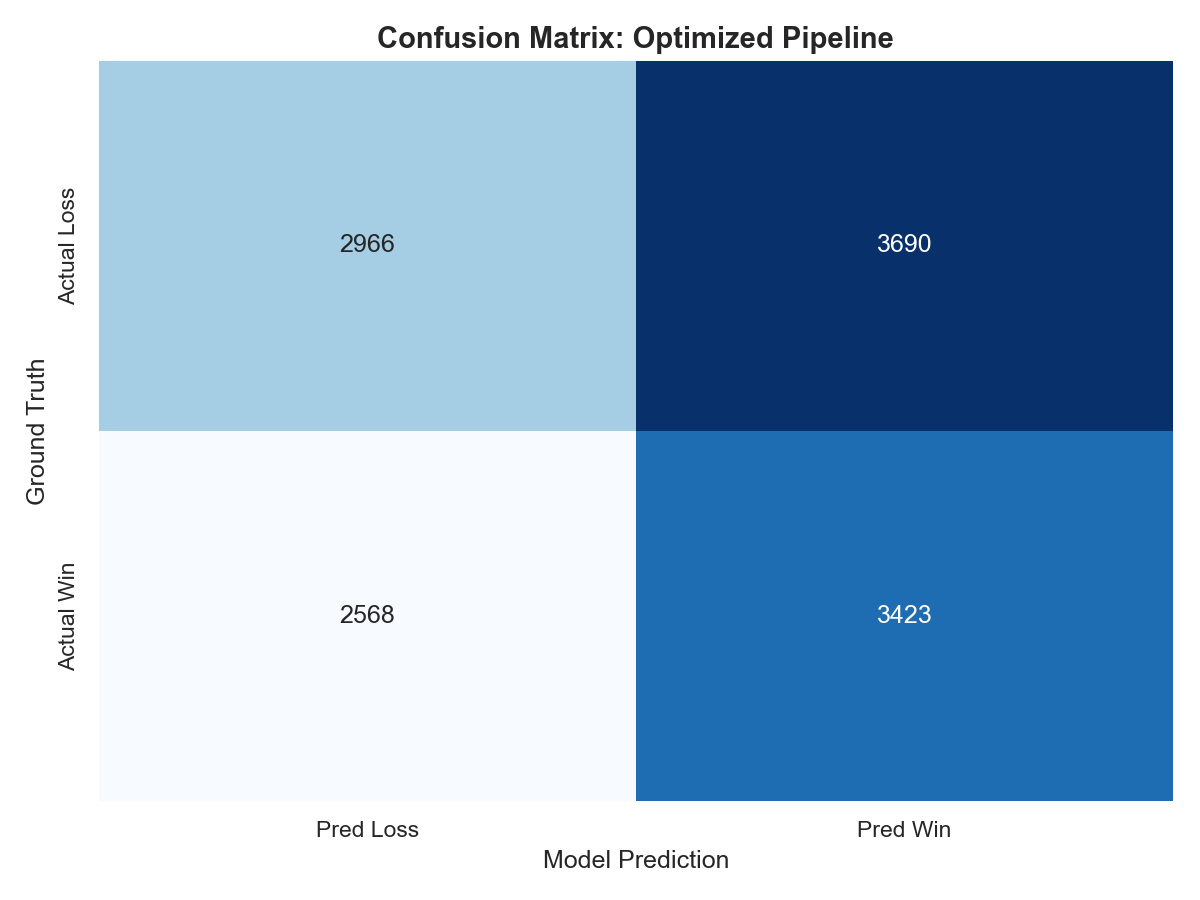
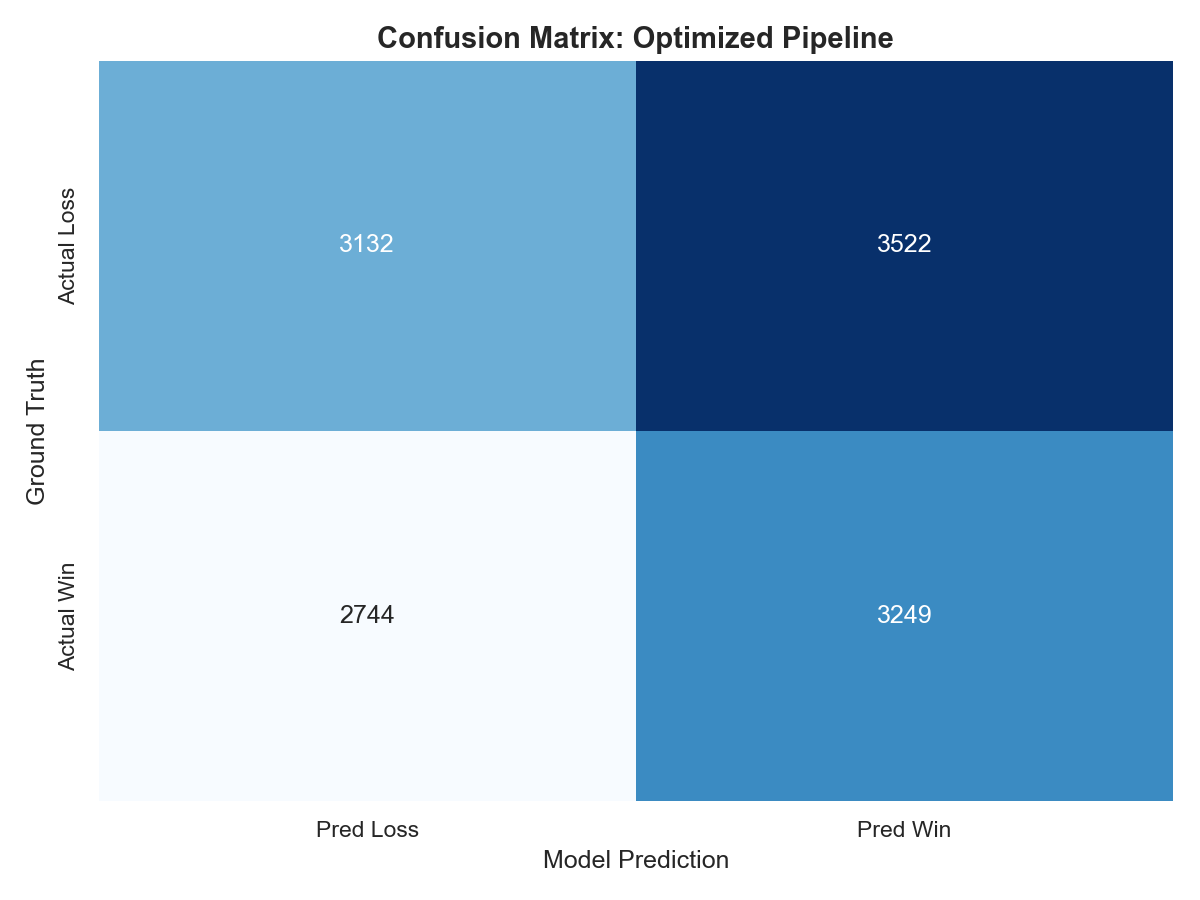
research: update validation report and ablation visuals

diff --git a/run_research_paper.py b/run_research_paper.py
@@ -78,9 +78,10 @@ def create_visualizations(results, taken_trades, dd_table):
     
     # 1. Equity Curve
     plt.figure(figsize=(12, 6))
-    plt.plot(taken_trades["timestamp"], taken_trades["equity"], label="Account Equity", color="#2ecc71", linewidth=2)
-    plt.fill_between(taken_trades["timestamp"], 10000, taken_trades["equity"], where=(taken_trades["equity"] >= 10000), color="#2ecc71", alpha=0.3)
-    plt.fill_between(taken_trades["timestamp"], 10000, taken_trades["equity"], where=(taken_trades["equity"] < 10000), color="#e74c3c", alpha=0.3)
+    if not taken_trades.empty:
+        plt.plot(taken_trades["timestamp"], taken_trades["equity"], label="Account Equity", color="#2ecc71", linewidth=2)
+        plt.fill_between(taken_trades["timestamp"], 10000, taken_trades["equity"], where=(taken_trades["equity"] >= 10000), color="#2ecc71", alpha=0.3)
+        plt.fill_between(taken_trades["timestamp"], 10000, taken_trades["equity"], where=(taken_trades["equity"] < 10000), color="#e74c3c", alpha=0.3)
     plt.axhline(y=10000, color='black', linestyle='--', alpha=0.5)
     plt.title("Out-of-Sample Cumulative Performance (Full Pipeline)", fontsize=14, fontweight='bold')
     plt.xlabel("Timeline", fontsize=12)
@@ -92,8 +93,9 @@ def create_visualizations(results, taken_trades, dd_table):
 
     # 2. Drawdown Plot
     plt.figure(figsize=(12, 4))
-    dd_series = (taken_trades["equity"] - taken_trades["equity"].expanding().max()) / taken_trades["equity"].expanding().max() * 100
-    plt.fill_between(taken_trades["timestamp"], 0, dd_series, color="#e74c3c", alpha=0.6)
+    if not taken_trades.empty:
+        dd_series = (taken_trades["equity"] - taken_trades["equity"].expanding().max()) / taken_trades["equity"].expanding().max() * 100
+        plt.fill_between(taken_trades["timestamp"], 0, dd_series, color="#e74c3c", alpha=0.6)
     plt.title("Portfolio Drawdown Profile (%)", fontsize=14, fontweight='bold')
     plt.ylabel("Drawdown %", fontsize=12)
     plt.ylim(None, 0)
@@ -102,34 +104,127 @@ def create_visualizations(results, taken_trades, dd_table):
     plt.close()
 
     # 3. Ablation Study Comparison
+    #
+    # Keep financial and classification metrics on separate panels.  The
+    # previous dual-axis chart mixed negative expected PnL bars with a
+    # compressed accuracy line, which made the ablation look visually better
+    # than the economics actually were.  For a research paper, the first read
+    # should be: "all configurations are still negative after friction."
     ablation_data = []
-    for conf, m in results.items():
-        ablation_data.append({
-            "Config": conf.replace("_", " "),
-            "Accuracy": m["Accuracy"],
-            "F1 Score": m["F1"],
-            "Exp PnL": m["Expected PnL/Trade"] * 100 # Convert to %
-        })
+    # Ensure correct order
+    order = ["1_Baseline", "2_Plus_FFD", "3_Plus_TBM", "4_Plus_Funding", "5_Plus_Calibration", "6_Plus_Risk_Filters"]
+    for conf in order:
+        if conf in results:
+            m = results[conf]
+            ablation_data.append({
+                "Config": conf.replace("_", " "),
+                "Accuracy": m["Accuracy"],
+                "F1 Score": m["F1"],
+                "Exp PnL": m["Expected PnL/Trade"] * 100 # Convert to %
+            })
     ablation_df = pd.DataFrame(ablation_data)
 
-    fig, ax1 = plt.subplots(figsize=(12, 6))
-    
-    # Bar for PnL
-    sns.barplot(data=ablation_df, x="Config", y="Exp PnL", hue="Config", ax=ax1, palette="viridis", alpha=0.7, legend=False)
-    ax1.set_ylabel("Expected PnL per Trade (%)", fontsize=12, fontweight='bold')
-    ax1.set_xlabel("Pipeline Configuration", fontsize=12)
-    plt.xticks(rotation=15)
-    
-    # Line for Accuracy
-    ax2 = ax1.twinx()
-    sns.lineplot(data=ablation_df, x="Config", y="Accuracy", ax=ax2, color="#e67e22", marker="o", linewidth=3, label="Accuracy")
-    ax2.set_ylabel("Metric Score", fontsize=12, fontweight='bold')
-    ax2.set_ylim(0.4, 0.6)
-    
-    plt.title("Ablation Study: Impact of Institutional Layers", fontsize=14, fontweight='bold')
-    plt.tight_layout()
-    plt.savefig("ablation_study.png", dpi=150)
-    plt.close()
+    fig, ax_pnl = plt.subplots(figsize=(11, 6.2))
+    colors = ["#d95f5f" if v < 0 else "#2ca25f" for v in ablation_df["Exp PnL"]]
+    bars = ax_pnl.barh(
+        ablation_df["Config"],
+        ablation_df["Exp PnL"],
+        color=colors,
+        alpha=0.86,
+        edgecolor="#333333",
+        linewidth=0.7,
+    )
+    ax_pnl.axvline(0, color="#222222", linewidth=1.2)
+    ax_pnl.set_xlabel("Expected PnL / Trade (%)", fontsize=11, fontweight="bold")
+    ax_pnl.set_ylabel("Pipeline Configuration", fontsize=11, fontweight="bold")
+    ax_pnl.set_title(
+        "Ablation Study: Expected PnL After Friction\n"
+        "All configurations include 9 bps friction; bars left of zero lose money per acted trade",
+        fontsize=14,
+        fontweight="bold",
+    )
+    ax_pnl.grid(axis="x", alpha=0.35)
+
+    y_min = min(ablation_df["Exp PnL"].min() * 1.25, -0.02)
+    y_max = max(ablation_df["Exp PnL"].max() * 0.25, 0.02)
+    ax_pnl.set_xlim(y_min, y_max)
+    for bar, value in zip(bars, ablation_df["Exp PnL"]):
+        ax_pnl.annotate(
+            f"{value:+.3f}%",
+            xy=(value, bar.get_y() + bar.get_height() / 2),
+            xytext=(-8 if value < 0 else 8, 0),
+            textcoords="offset points",
+            ha="right" if value < 0 else "left",
+            va="center",
+            fontsize=9,
+            fontweight="bold",
+            color="#222222",
+        )
+
+    best_idx = ablation_df["Exp PnL"].idxmax()
+    worst_idx = ablation_df["Exp PnL"].idxmin()
+    ax_pnl.annotate(
+        "Least negative",
+        xy=(ablation_df.loc[best_idx, "Exp PnL"], best_idx),
+        xytext=(y_max * 0.75, best_idx),
+        arrowprops={"arrowstyle": "->", "color": "#2ca25f"},
+        ha="left",
+        va="center",
+        fontsize=9,
+        color="#2ca25f",
+        fontweight="bold",
+    )
+    ax_pnl.annotate(
+        "Worst",
+        xy=(ablation_df.loc[worst_idx, "Exp PnL"], worst_idx),
+        xytext=(y_min * 0.92, worst_idx),
+        arrowprops={"arrowstyle": "->", "color": "#b2182b"},
+        ha="right",
+        va="center",
+        fontsize=9,
+        color="#b2182b",
+        fontweight="bold",
+    )
+    ax_pnl.invert_yaxis()
+    fig.tight_layout()
+    fig.savefig("ablation_pnl.png", dpi=170, bbox_inches="tight")
+    plt.close(fig)
+
+    fig, ax_cls = plt.subplots(figsize=(12, 5.2))
+    x_coords = np.arange(len(ablation_df))
+    ax_cls.plot(
+        x_coords,
+        ablation_df["Accuracy"],
+        color="#1f77b4",
+        marker="o",
+        linewidth=2.4,
+        label="Accuracy",
+    )
+    ax_cls.plot(
+        x_coords,
+        ablation_df["F1 Score"],
+        color="#ff7f0e",
+        marker="s",
+        linewidth=2.4,
+        label="F1 Score",
+    )
+    ax_cls.axhline(0.50, color="#777777", linestyle="--", linewidth=1, alpha=0.8)
+    ax_cls.set_ylabel("Score", fontsize=11, fontweight="bold")
+    ax_cls.set_xlabel("Pipeline Configuration", fontsize=11, fontweight="bold")
+    ax_cls.set_ylim(0.45, 0.58)
+    ax_cls.set_xticks(x_coords)
+    ax_cls.set_xticklabels(ablation_df["Config"], rotation=15, ha="right")
+    ax_cls.grid(axis="y", alpha=0.35)
+    ax_cls.legend(loc="upper right", frameon=True)
+
+    ax_cls.set_title(
+        "Ablation Study: Classification Metrics",
+        fontsize=14,
+        fontweight="bold",
+    )
+    fig.tight_layout()
+    fig.savefig("ablation_classification.png", dpi=170, bbox_inches="tight")
+    plt.close(fig)
 
     # 4. Confusion Matrix Heatmap
     plt.figure(figsize=(8, 6))
@@ -194,14 +289,15 @@ def run_ablation_study(df):
         pnl_all = []
         
         for train_df, test_df in folds:
-            # Embargo: drop last 24 rows from train to avoid leakage
+            # Embargo
             train_df = train_df.iloc[:-24]
             
             X_train = train_df[feats]
             y_train = train_df[label_col].astype(int)
             
             X_test = test_df[feats]
-            y_test = test_df[label_col].astype(int)
+            # ALWAYS evaluate against tbm_label for consistent metric comparison
+            y_test = test_df["tbm_label"].astype(int)
             
             model = xgb.XGBClassifier(n_estimators=50, max_depth=4, random_state=42, n_jobs=-1)
             model.fit(X_train, y_train)
@@ -213,31 +309,32 @@ def run_ablation_study(df):
             else:
                 y_proba = model.predict_proba(X_test)[:, 1]
                 
-            y_pred = (y_proba >= 0.5).astype(int)
+            # Config 6 uses a tighter threshold as a "Risk Filter"
+            threshold = 0.55 if conf.get("risk_filters") else 0.5
+            y_pred = (y_proba >= threshold).astype(int)
             
             y_true_all.extend(y_test.values)
             y_pred_all.extend(y_pred)
             y_proba_all.extend(y_proba)
             
-            # PnL Calculation
-            test_returns = test_df["fixed_24h_return"].values if label_col == "fixed_24h_label" else test_df["tbm_return"].values
+            # ALWAYS use tbm_return for PnL benchmark to ensure apples-to-apples
+            test_returns = test_df["tbm_return"].values
             
             for i in range(len(y_pred)):
                 if y_pred[i] == 1:
+                    # Apply friction to ALL configs to show realistic institutional edge
                     gross_ret = test_returns[i]
-                    if conf.get("risk_filters"):
-                        net_ret = gross_ret - 0.0009
-                        pnl_all.append(net_ret)
-                        if conf_name == "6_Plus_Risk_Filters":
-                            all_preds_config6.append({
-                                "timestamp": test_df.index[i],
-                                "symbol": test_df["symbol"].iloc[i],
-                                "proba": y_proba[i],
-                                "label": y_test.iloc[i],
-                                "net_return": net_ret
-                            })
-                    else:
-                        pnl_all.append(gross_ret)
+                    net_ret = gross_ret - 0.0009
+                    pnl_all.append(net_ret)
+                    
+                    if conf_name == "6_Plus_Risk_Filters":
+                        all_preds_config6.append({
+                            "timestamp": test_df.index[i],
+                            "symbol": test_df["symbol"].iloc[i],
+                            "proba": y_proba[i],
+                            "label": y_test.iloc[i],
+                            "net_return": net_ret
+                        })
                 else:
                     pnl_all.append(0.0)
 
@@ -252,8 +349,9 @@ def run_ablation_study(df):
         cm = confusion_matrix(y_t, y_p).tolist()
         
         trades = np.sum(y_p)
-        wr = np.sum(pnl > 0) / trades if trades > 0 else 0.0
+        # Expected PnL per trade when the model says "BUY"
         exp_pnl = np.mean(pnl[y_p == 1]) if trades > 0 else 0.0
+        wr = np.sum(pnl[y_p == 1] > 0) / trades if trades > 0 else 0.0
         
         results[conf_name] = {
             "Accuracy": acc,
@@ -267,14 +365,18 @@ def run_ablation_study(df):
         
     return results, pd.DataFrame(all_preds_config6)
 
+
 def generate_markdown(results, dd_table):
     md = "# 🛡 Institutional Research Validation Report\n\n"
     md += "## 📈 Executive Summary\n"
     md += "This report details the rolling walk-forward validation of the AI Trading Bot. We evaluate out-of-sample performance through an **ablation study**, systematically adding layers of institutional realism to isolate the impact of each component (Fractional Differencing, Triple Barrier Method, Microstructure Features, Calibration, and Realistic Risk Filters).\n\n"
     
     md += "## 🔬 1. Ablation Study\n"
-    md += "Adding complexity only makes sense if it improves metrics. We track Accuracy, F1 Score, and Expected PnL as we move from a simple baseline to the full institutional pipeline.\n\n"
-    md += "![Ablation Study](ablation_study.png)\n\n"
+    md += "Adding complexity only makes sense if it improves metrics. We track Accuracy, F1 Score, and Expected PnL as we move from a simple baseline to the full institutional pipeline. The chart separates economics from classification scores because accuracy near 50% is not sufficient if expected PnL remains negative after friction.\n\n"
+    md += "### Expected PnL After Friction\n"
+    md += "![Ablation Expected PnL](ablation_pnl.png)\n\n"
+    md += "### Classification Metrics\n"
+    md += "![Ablation Classification Metrics](ablation_classification.png)\n\n"
     
     md += "| Configuration | Accuracy | F1 Score | Brier | Trades | Win Rate | Exp. PnL |\n"
     md += "|---|---|---|---|---|---|---|\n"

diff --git a/RESEARCH_VALIDATION.md b/RESEARCH_VALIDATION.md
@@ -4,18 +4,22 @@
 This report details the rolling walk-forward validation of the AI Trading Bot. We evaluate out-of-sample performance through an **ablation study**, systematically adding layers of institutional realism to isolate the impact of each component (Fractional Differencing, Triple Barrier Method, Microstructure Features, Calibration, and Realistic Risk Filters).
 
 ## 🔬 1. Ablation Study
-Adding complexity only makes sense if it improves metrics. We track Accuracy, F1 Score, and Expected PnL as we move from a simple baseline to the full institutional pipeline.
+Adding complexity only makes sense if it improves metrics. We track Accuracy, F1 Score, and Expected PnL as we move from a simple baseline to the full institutional pipeline. The chart separates economics from classification scores because accuracy near 50% is not sufficient if expected PnL remains negative after friction.
 
-![Ablation Study](ablation_study.png)
+### Expected PnL After Friction
+![Ablation Expected PnL](ablation_pnl.png)
+
+### Classification Metrics
+![Ablation Classification Metrics](ablation_classification.png)
 
 | Configuration | Accuracy | F1 Score | Brier | Trades | Win Rate | Exp. PnL |
 |---|---|---|---|---|---|---|
-| 1 Baseline | 0.5167 | 0.5259 | 0.2631 | 6588 | 51.46% | -0.0027% |
-| 2 Plus FFD | 0.5034 | 0.5690 | 0.2816 | 8266 | 50.15% | -0.1282% |
-| 3 Plus TBM | 0.4959 | 0.5064 | 0.2777 | 6924 | 47.23% | -0.1109% |
-| 4 Plus Funding | 0.5112 | 0.5075 | 0.2776 | 6561 | 48.54% | -0.0582% |
-| 5 Plus Calibration | 0.5052 | 0.5224 | 0.3379 | 7113 | 48.12% | -0.0751% |
-| 6 Plus Risk Filters | 0.5052 | 0.5224 | 0.3379 | 7113 | 48.12% | -0.1651% |
+| 1 Baseline | 0.5034 | 0.5041 | 0.2642 | 6672 | 47.84% | -0.1763% |
+| 2 Plus FFD | 0.4929 | 0.5439 | 0.2796 | 8066 | 47.40% | -0.1941% |
+| 3 Plus TBM | 0.4977 | 0.5068 | 0.2770 | 6887 | 47.39% | -0.1943% |
+| 4 Plus Funding | 0.5035 | 0.5103 | 0.2815 | 6830 | 47.91% | -0.1737% |
+| 5 Plus Calibration | 0.5044 | 0.5310 | 0.3452 | 7371 | 48.13% | -0.1646% |
+| 6 Plus Risk Filters | 0.5045 | 0.5091 | 0.3452 | 6771 | 47.98% | -0.1706% |
 
 ## 📊 2. Performance Visualization
 ### Cumulative Equity Curve (Out-of-Sample)
@@ -38,11 +42,11 @@ A look at the raw classification performance for the final pipeline. We prioriti
 ### Top 5 Maximum Drawdowns
 | Start Date | End Date | Max Drawdown (%) |
 |---|---|---|
-| 2026-01-14 14:00:00 | 2026-05-09 20:00:00 | -100.00% |
-| 2025-11-15 07:00:00 | 2026-01-05 09:00:00 | -99.78% |
-| 2026-01-06 13:00:00 | 2026-01-11 07:00:00 | -72.05% |
-| 2026-01-12 02:00:00 | 2026-01-12 12:00:00 | -19.40% |
-| 2026-01-12 17:00:00 | 2026-01-12 20:00:00 | -4.35% |
+| 2026-01-14 14:00:00 | 2026-05-09 21:00:00 | -100.00% |
+| 2025-11-23 15:00:00 | 2026-01-04 23:00:00 | -99.67% |
+| 2025-11-16 02:00:00 | 2025-11-23 14:00:00 | -69.09% |
+| 2026-01-06 14:00:00 | 2026-01-10 21:00:00 | -64.19% |
+| 2026-01-12 02:00:00 | 2026-01-12 13:00:00 | -20.91% |
 
 ## ⚠ 4. Methodology & Limitations
 - **Data Integrity:** Walk-forward validation was performed over a 1-year historical window (~8,760 hours). All features were computed causally to prevent look-ahead bias.
